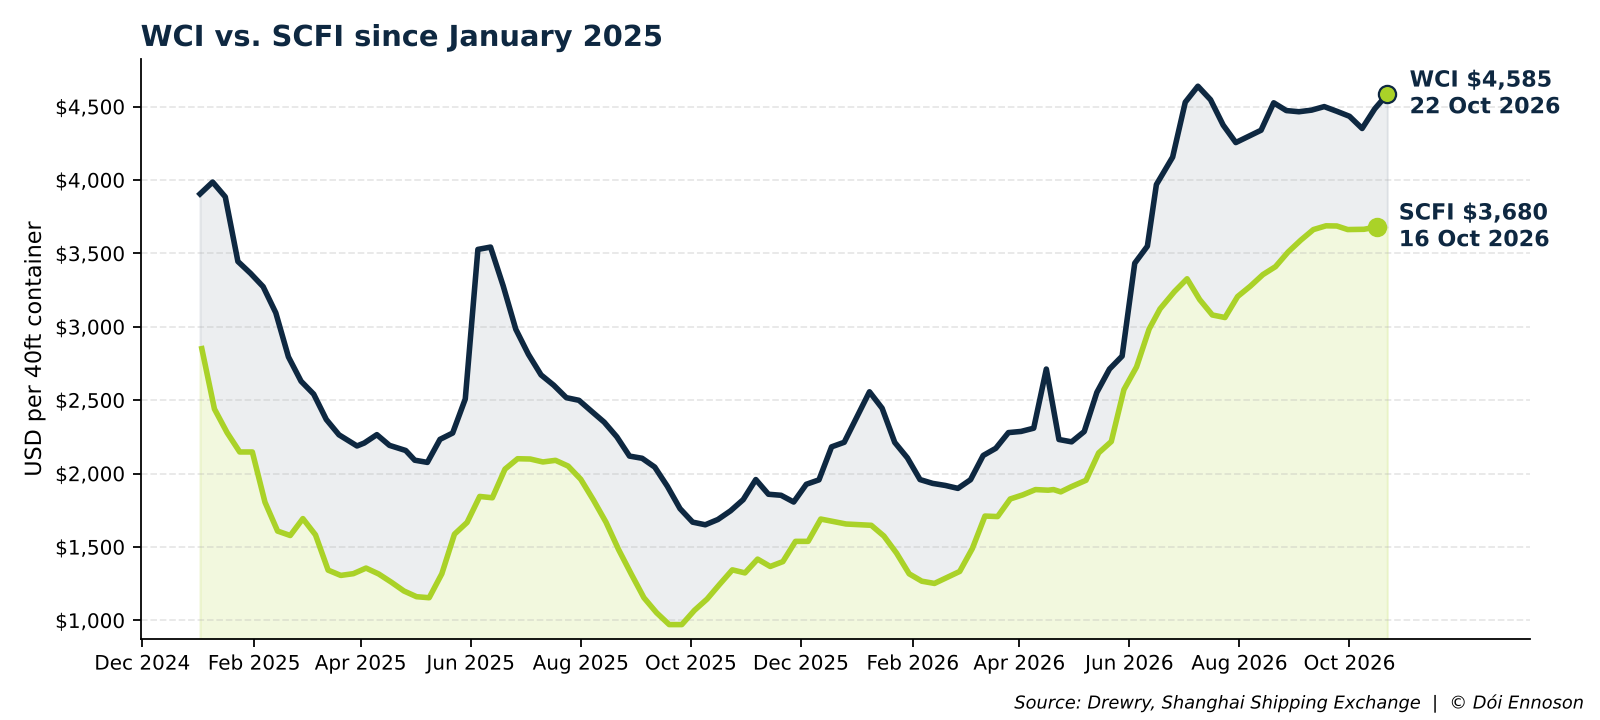
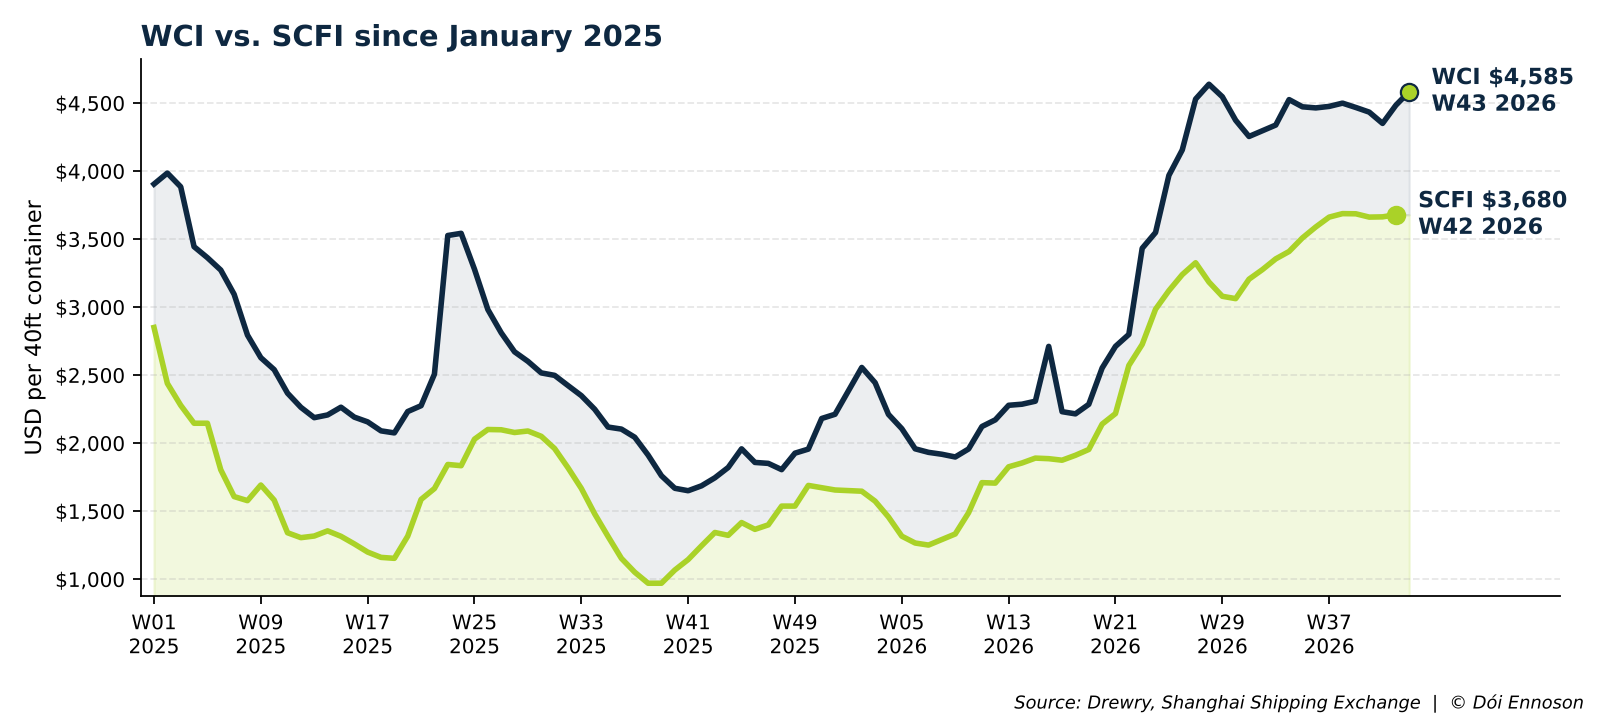
Align WCI vs. SCFI chart by calendar week
WCI (Thursday) and SCFI (Friday) values of the same ISO week share one
x position again, as in the original chart; axis and end labels show
calendar weeks. The shading uses the weekly values directly.

Claude-Session: https://claude.ai/code/session_01JCdhY1R9vYqJgFoeeUM1W8

diff --git a/src/plot_generator.py b/src/plot_generator.py
@@ -1,5 +1,4 @@
 import os
-import numpy as np
 import pandas as pd
 import matplotlib.pyplot as plt
 import matplotlib.dates as mdates
@@ -73,16 +72,16 @@ def style_chart(fig, ax, title, source):
     plt.tight_layout(rect=[0, 0.03, 1, 1])
 
 
-def mark_last_value(ax, df, color, label='', side='above'):
+def mark_last_value(ax, df, color, label='', side='above', x_col='Date', date_format='%d %b %Y'):
     """Highlight the latest data point with a dot and its value ('above' or 'right' of the dot)."""
-    last_date = df['Date'].iloc[-1]
+    last_date = df[x_col].iloc[-1]
     last_value = df['Value'].iloc[-1]
     ax.scatter([last_date], [last_value], color=COLOR_SCFI, edgecolor=color, s=60, zorder=3)
     if side == 'right':
         offset, ha, va = (10, 0), 'left', 'center'
     else:
         offset, ha, va = (-10, 12), 'right', 'bottom'
-    ax.annotate(f'{label}${last_value:,.0f}\n{last_date.strftime("%d %b %Y")}',
+    ax.annotate(f'{label}${last_value:,.0f}\n{last_date.strftime(date_format)}',
                 xy=(last_date, last_value), xytext=offset, textcoords='offset points',
                 ha=ha, va=va, fontsize=10, fontweight='bold', color=COLOR_WCI)
 
@@ -124,32 +123,42 @@ def create_wci_scfi_chart():
         logger.error("❌ No WCI or SCFI data available from 2025-01-01")
         return False
     
+    # Align both indices by calendar week: WCI is published on Thursday, SCFI on Friday,
+    # so each week's values share one x position (Monday of the ISO week)
+    for df in (wci_df, scfi_df):
+        df['Week'] = df['Date'] - pd.to_timedelta(df['Date'].dt.weekday, unit='D')
+    wci_df = wci_df.drop_duplicates('Week', keep='last')
+    scfi_df = scfi_df.drop_duplicates('Week', keep='last')
+    
     fig, ax = plt.subplots(figsize=(10, 4.5))
     
     # Both in USD on the same axis
-    ax.plot(wci_df['Date'], wci_df['Value'], color=COLOR_WCI, linewidth=2.5)
-    ax.plot(scfi_df['Date'], scfi_df['Value'], color=COLOR_SCFI, linewidth=2.5)
+    ax.plot(wci_df['Week'], wci_df['Value'], color=COLOR_WCI, linewidth=2.5)
+    ax.plot(scfi_df['Week'], scfi_df['Value'], color=COLOR_SCFI, linewidth=2.5)
     bottom = min(wci_df['Value'].min(), scfi_df['Value'].min()) * 0.9
     ax.set_ylim(bottom=bottom)
     
-    # Shading: green below SCFI, blue between SCFI and WCI. WCI (Thursday) and SCFI (Friday)
-    # have different dates, so both are interpolated onto the union of their dates.
-    grid = np.union1d(mdates.date2num(wci_df['Date']), mdates.date2num(scfi_df['Date']))
-    wci_grid = np.interp(grid, mdates.date2num(wci_df['Date']), wci_df['Value'])
-    scfi_grid = np.interp(grid, mdates.date2num(scfi_df['Date']), scfi_df['Value'])
-    grid_dates = mdates.num2date(grid)
-    ax.fill_between(grid_dates, scfi_grid, bottom, color=COLOR_SCFI, alpha=0.15)
-    ax.fill_between(grid_dates, wci_grid, scfi_grid, color=COLOR_WCI, alpha=0.08)
+    # Shading: green below SCFI, blue between SCFI and WCI. Weeks missing in one series
+    # (e.g. SCFI holiday breaks) are interpolated, edges take the nearest value.
+    weeks = pd.merge(wci_df[['Week', 'Value']], scfi_df[['Week', 'Value']],
+                     on='Week', how='outer', suffixes=('_wci', '_scfi')).sort_values('Week')
+    weeks = weeks.set_index('Week').interpolate(method='time').ffill().bfill()
+    ax.fill_between(weeks.index, weeks['Value_scfi'], bottom, color=COLOR_SCFI, alpha=0.15)
+    ax.fill_between(weeks.index, weeks['Value_wci'], weeks['Value_scfi'], color=COLOR_WCI, alpha=0.08)
     
     # Direct labels right of the line ends instead of a legend; extra space on the right for them
-    last_date = max(wci_df['Date'].max(), scfi_df['Date'].max())
-    ax.set_xlim(right=last_date + (last_date - start_date) * 0.12)
-    mark_last_value(ax, wci_df, COLOR_WCI, 'WCI ', side='right')
-    mark_last_value(ax, scfi_df, COLOR_SCFI, 'SCFI ', side='right')
+    last_week = weeks.index.max()
+    first_week = weeks.index.min()
+    ax.set_xlim(left=first_week - pd.Timedelta(days=7), right=last_week + (last_week - first_week) * 0.12)
+    mark_last_value(ax, wci_df, COLOR_WCI, 'WCI ', side='right', x_col='Week', date_format='W%V %G')
+    mark_last_value(ax, scfi_df, COLOR_SCFI, 'SCFI ', side='right', x_col='Week', date_format='W%V %G')
     
     style_chart(fig, ax, 'WCI vs. SCFI since January 2025', 'Drewry, Shanghai Shipping Exchange')
-    # No month ticks in the empty label area right of the data
-    ax.set_xticks([t for t in ax.get_xticks() if t <= mdates.date2num(last_date)])
+    # Calendar week labels every 8 weeks, none in the empty label area right of the data
+    ax.xaxis.set_major_locator(mdates.WeekdayLocator(byweekday=mdates.MO, interval=8))
+    ax.xaxis.set_major_formatter(mdates.DateFormatter('W%V\n%G'))
+    ax.set_xticks([t for t in ax.get_xticks() if t <= mdates.date2num(last_week)])
+    plt.tight_layout(rect=[0, 0.05, 1, 1])  # Room for two-line week labels above the source line
     os.makedirs(os.path.dirname(WCI_SCFI_OUTPUT), exist_ok=True)
     plt.savefig(WCI_SCFI_OUTPUT, dpi=160, facecolor='white')
     plt.close()
